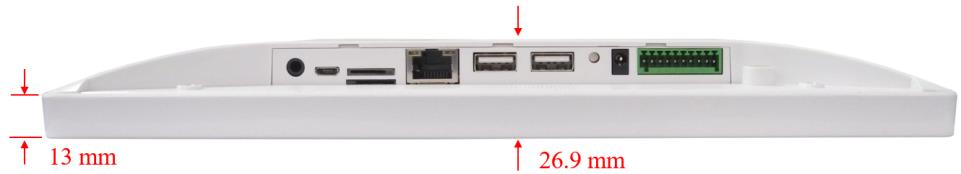
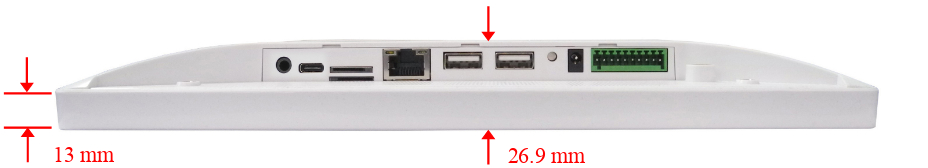
Replaced USB-OTG with USB TYPE-C

Changed region(s): [[0.0, 0.0298, 1.0, 0.9821]]

diff --git a/docs/source/conf.py b/docs/source/conf.py
@@ -89,7 +89,7 @@ html_extra_path = ['./index.html', './index.php']
 numfig = True
 numfig_secnum_depth = 1
 
-numfig_format = {'figure': 'Figure %s: '}
+numfig_format = {'figure': 'Figure %s: ', 'table': 'Table %s: '}
 html_show_sphinx = False  # shows sphinx footer link
 html_show_sourcelink = False  # shows link to rst file that generates page
 

diff --git a/docs/source/PCs/Pi/AIO/Manuals/Hardware/CS12800RA4101A.rst b/docs/source/PCs/Pi/AIO/Manuals/Hardware/CS12800RA4101A.rst
@@ -16,7 +16,7 @@
 
 .. |tscreen| replace:: 10-point capacitive touch with 1.0mm Armored Glass
 
-.. |USB| replace:: 2 x USB 2.0 Host, 1 x mini USB OTG
+.. |USB| replace:: 2 x USB 2.0 Host, 1 x USB TYPE-C
 
 .. |LAN| replace:: 1 x Channel Giga LAN
 
@@ -176,7 +176,7 @@ There are three (3) buttons on the backside of the case: Volume +, Volume -, and
 
   *Buttons*
 
-|Product| boots from the internal eMMC by default. If you want it to boot from the USB OTG connector, please press the Boot Mode button before power ON, and release it 3 seconds after power ON.
+|Product| boots from the internal eMMC by default. If you want it to boot from the USB TYPE-C connector, please press the Boot Mode button before power ON, and release it 3 seconds after power ON.
 If you use CS12800RA4101A_C121, the Boot Mode button had been changed to VOL+, you should press VOL+ to enter USB download mode.
 
 
@@ -186,26 +186,26 @@ Connectivity
 There are many connectivity options available on the |product| industrial Pi PC. It has |USB|, |LAN| (RJ45) Ethernet connector supporting up to
 1 Gbps, and RS232+RS485+Relay connector.
 
-USB HOST and USB OTG
---------------------
+USB HOST and USB TYPE-C
+-----------------------
 
-There are 2 x Type A **USB HOST connectors** and 1 x **USB-OTG Connector** onboard, as shown on the figures below.
+There are 2 x Type A **USB HOST connectors** and 1 x **USB TYPE-C Connector** onboard, as shown on the figures below.
 
 .. Figure:: /Media/Pi/AIO/CS12800RA4101A/101-USB.jpeg
   :align: center
   :figclass: align-center
 
-.. Figure:: /Media/Pi/AIO/CS12800RA4101A/101-OTG.jpeg
+.. Figure:: /Media/Pi/AIO/CS12800RA4101A/101-TYPE_C.jpg
   :align: center
   :figclass: align-center
 
-  *USB HOST and USB OTG Connectors*
+  *USB HOST and USB TYPE-C Connectors*
 
 .. note::
 
     * External USB peripherals like a USB disk or USB mouse or keyboard can connect to the USB HOST.
-    * You can download software to the Raspberry Pi CM4 eMMC using the USB OTG.
-    * When you connect the USB OTG to a device, it will disable the USB HOST.
+    * You can download software to the Raspberry Pi CM4 eMMC using the USB TYPE-C.
+    * When you connect the USB TYPE-C to a device, it will disable the USB HOST.
 
 LAN Connectors
 ---------------
@@ -237,7 +237,7 @@ You can use the SIM card slot when you mount the 4G/LTE module.
 
 .. note::
 
-  #) The product does not come shipped with the TF Card and the SIM Card by default.
+  The product does not come shipped with the TF Card and the SIM Card by default.
 
 
 Audio In/Out Connector
@@ -276,7 +276,6 @@ The table below offers more detailed description of every pin and its definition
 .. table:: RS232/RS485/Relay Connector
    :align: center
    :width: 100%
-   :class: align-center
    :widths: auto
 
    +---------------------------------------------------------------------------------------------------------------+
